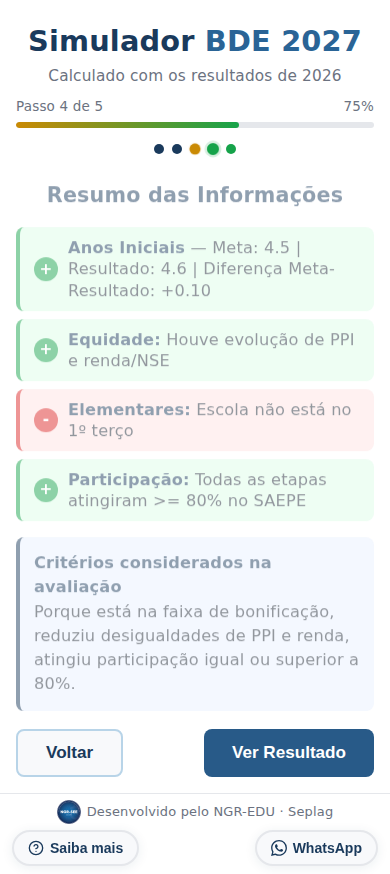
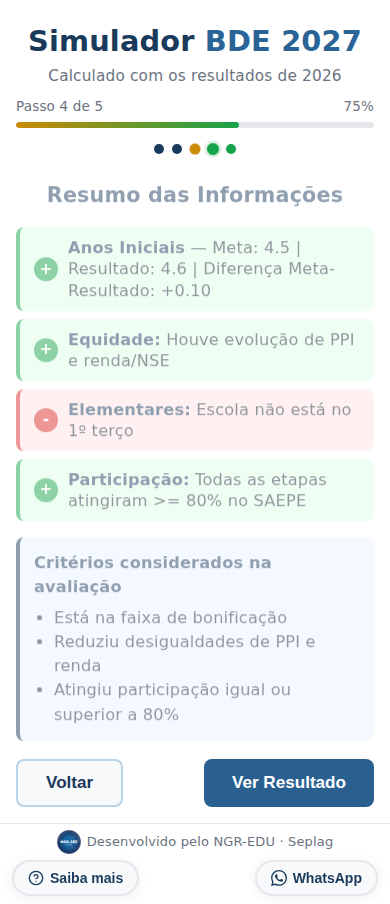
Resumo: criterios da avaliacao em lista, sem o "Porque"

diff --git a/index.html b/index.html
@@ -602,6 +602,10 @@ body {
     border-left: 4px solid var(--azul);
 }
 .resumo-motivo strong { color: var(--azul); }
+.resumo-motivo ul {
+    margin: 6px 0 0;
+    padding-left: 20px;
+}
 
 /* ============================================================================
    Resultado (Step 7)
@@ -1549,19 +1553,19 @@ function montarResumo() {
 
     if (comIdepe.length > 0) {
         // Abaixo de -0,3 a tabela da 0%: ai a escola nao esta na faixa.
-        if (estado.resultadoApi.percentual_idepe > 0) motivos.push('está na faixa de bonificação');
+        if (estado.resultadoApi.percentual_idepe > 0) motivos.push('Está na faixa de bonificação');
     } else {
-        motivos.push('não teve IDEPE divulgado em nenhuma etapa, por falta de participação');
+        motivos.push('Não teve IDEPE divulgado em nenhuma etapa, por falta de participação');
     }
-    if (eq) motivos.push('reduziu desigualdades de PPI e renda');
-    else if (el) motivos.push('está entre as escolas com menor % de estudantes nos padrões elementares');
-    if (part) motivos.push('atingiu participação igual ou superior a 80%');
+    if (eq) motivos.push('Reduziu desigualdades de PPI e renda');
+    else if (el) motivos.push('Está entre as escolas com menor % de estudantes nos padrões elementares');
+    if (part) motivos.push('Atingiu participação igual ou superior a 80%');
 
     if (motivos.length > 0) {
         html += `
             <div class="resumo-motivo">
-                <strong>Critérios considerados na avaliação</strong><br>
-                Porque ${motivos.join(', ')}.
+                <strong>Critérios considerados na avaliação</strong>
+                <ul>${motivos.map((m) => `<li>${m}</li>`).join('')}</ul>
             </div>`;
     }
 

diff --git a/app/static/js/wizard.js b/app/static/js/wizard.js
@@ -406,19 +406,19 @@ function montarResumo() {
 
     if (comIdepe.length > 0) {
         // Abaixo de -0,3 a tabela da 0%: ai a escola nao esta na faixa.
-        if (estado.resultadoApi.percentual_idepe > 0) motivos.push('está na faixa de bonificação');
+        if (estado.resultadoApi.percentual_idepe > 0) motivos.push('Está na faixa de bonificação');
     } else {
-        motivos.push('não teve IDEPE divulgado em nenhuma etapa, por falta de participação');
+        motivos.push('Não teve IDEPE divulgado em nenhuma etapa, por falta de participação');
     }
-    if (eq) motivos.push('reduziu desigualdades de PPI e renda');
-    else if (el) motivos.push('está entre as escolas com menor % de estudantes nos padrões elementares');
-    if (part) motivos.push('atingiu participação igual ou superior a 80%');
+    if (eq) motivos.push('Reduziu desigualdades de PPI e renda');
+    else if (el) motivos.push('Está entre as escolas com menor % de estudantes nos padrões elementares');
+    if (part) motivos.push('Atingiu participação igual ou superior a 80%');
 
     if (motivos.length > 0) {
         html += `
             <div class="resumo-motivo">
-                <strong>Critérios considerados na avaliação</strong><br>
-                Porque ${motivos.join(', ')}.
+                <strong>Critérios considerados na avaliação</strong>
+                <ul>${motivos.map((m) => `<li>${m}</li>`).join('')}</ul>
             </div>`;
     }
 

diff --git a/app/static/css/estilo.css b/app/static/css/estilo.css
@@ -594,6 +594,10 @@ body {
     border-left: 4px solid var(--azul);
 }
 .resumo-motivo strong { color: var(--azul); }
+.resumo-motivo ul {
+    margin: 6px 0 0;
+    padding-left: 20px;
+}
 
 /* ============================================================================
    Resultado (Step 7)
